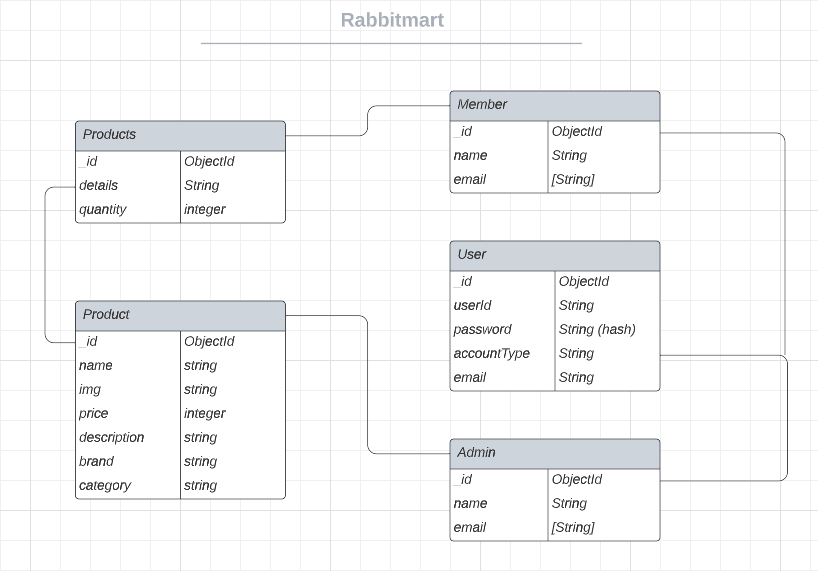
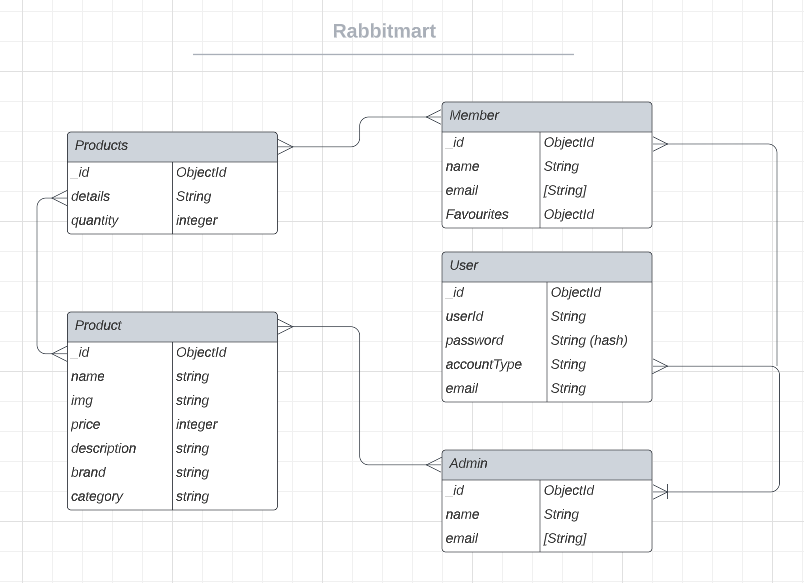
Clean version

diff --git a/src/pages/OrderPage/CartContext.jsx b/src/pages/OrderPage/CartContext.jsx
@@ -4,9 +4,7 @@ import { useProducts, getProductData } from "../../utilities/productStore";
 export const CartContext = createContext({
   items: [],
   getProductQuantity: () => {},
-  addOneToCart: () => {
-    console.log("HELLLOOOOOO");
-  },
+  addOneToCart: () => {},
   removeOneFromCart: () => {},
   deleteFromCart: () => {},
   getTotalCost: () => {},
@@ -28,9 +26,7 @@ export function CartProvider({ children }) {
   }
 
   function addOneToCart(_id) {
-    console.log("ADDED TO CART!!!");
     const quantity = getProductQuantity(_id);
-    console.log("ADD TO CART", quantity, _id);
     if (quantity === 0) {
       setCartProducts([
         ...cartProducts,
@@ -43,9 +39,9 @@ export function CartProvider({ children }) {
       setCartProducts(
         cartProducts.map(
           (product) =>
-            product._id === _id // if condition
-              ? { ...product, quantity: product.quantity + 1 } // if statement is true
-              : product // if statement is false
+            product._id === _id 
+              ? { ...product, quantity: product.quantity + 1 } 
+              : product 
         )
       );
     }
@@ -60,9 +56,9 @@ export function CartProvider({ children }) {
       setCartProducts(
         cartProducts.map(
           (product) =>
-            product._id === _id // if condition
-              ? { ...product, quantity: product.quantity - 1 } // if statement is true
-              : product // if statement is false
+            product._id === _id 
+              ? { ...product, quantity: product.quantity - 1 } 
+              : product 
         )
       );
     }
@@ -79,7 +75,7 @@ export function CartProvider({ children }) {
   function getTotalCost() {
     let totalCost = 0;
     cartProducts.map((cartItem) => {
-      const productData = getProductData(cartItem._id, products); // Update this line
+      const productData = getProductData(cartItem._id, products); 
       totalCost += productData.price * cartItem.quantity;
     });
     return totalCost;

diff --git a/src/utilities/productStore.js b/src/utilities/productStore.js
@@ -1,31 +1,30 @@
-    import { useState, useEffect } from 'react';
-    import axios from 'axios';
-    
-    function useProducts() {
-      const [products, setProducts] = useState([]);
-    
-      useEffect(() => {
-        async function fetchProducts() {
-          try {
-            const response = await axios.get('/api/products');
-            setProducts(response.data);
-          } catch (error) {
-            console.error('Error fetching products:', error);
-          }
-        }
-            fetchProducts();
-      }, []);
-          return products;
-    }
-    
-    function getProductData(id, productsArray) {
-      let productData = productsArray.find(product => product._id === id);
-          if (productData === undefined) {
-        console.log("Product data does not exist for ID: " + id);
-        return undefined;
+import { useState, useEffect } from "react";
+import axios from "axios";
+
+function useProducts() {
+  const [products, setProducts] = useState([]);
+
+  useEffect(() => {
+    async function fetchProducts() {
+      try {
+        const response = await axios.get("/api/products");
+        setProducts(response.data);
+      } catch (error) {
+        console.error("Error fetching products:", error);
       }
-     return productData;
     }
-    
-    export { useProducts, getProductData };
-    
+    fetchProducts();
+  }, []);
+  return products;
+}
+
+function getProductData(id, productsArray) {
+  let productData = productsArray.find((product) => product._id === id);
+  if (productData === undefined) {
+    console.log("Product data does not exist for ID: " + id);
+    return undefined;
+  }
+  return productData;
+}
+
+export { useProducts, getProductData };

diff --git a/controllers/memberController.js b/controllers/memberController.js
@@ -23,6 +23,7 @@ const seed = async (req, res) => {
   }
 };
 
+// Member CRUD --------------------------------------------------------------------------------
 const create = async (req, res) => {
   const { email, password, name } = req.body;
   if (password.length < 3) {
@@ -102,6 +103,8 @@ const resetPassword = async (req, res) => {
   }
 };
 
+// Favorite Products--------------------------------------------------------------------------------
+
 const getFavorites = async (req, res) => {
   const { memberId } = req.params;
 
@@ -113,11 +116,9 @@ const getFavorites = async (req, res) => {
   }
 };
 
-// Add favorite product
 const addFavorite = async (req, res) => {
   const { memberId, productId } = req.params;
   try {
-    // Find the member and add the product ID to the favorites array
     await Member.findByIdAndUpdate(memberId, {
       $addToSet: { favorites: productId },
     });
@@ -130,11 +131,9 @@ const addFavorite = async (req, res) => {
 const removeFavorite = async (req, res) => {
   const { memberId, productId } = req.params;
   try {
-    // Find the member and remove the product ID from the favorites array
     await Member.findByIdAndUpdate(memberId, {
       $pull: { favorites: productId },
     });
-
     res.status(200).json({ message: "Product removed from favorites." });
   } catch (error) {
     res.status(500).json({ error: "An error occurred while removing the product from favorites." });

diff --git a/src/utilities/api.js b/src/utilities/api.js
@@ -1,23 +1,9 @@
 import axios from "axios";
-const SERVER_ROOT = "/api";
 
 export function login(email, password) {
   return new Promise((resolve, reject) => {
     axios
       .post(`${SERVER_ROOT}/login`, { email, password })
-      .then((response) => {
-        resolve(response.data);
-      })
-      .catch((error) => {
-        reject(error);
-      });
-  });
-}
-
-export function getProducts() {
-  return new Promise((resolve, reject) => {
-    axios
-      .get(`${SERVER_ROOT}/products`)
       .then((response) => {
         resolve(response.data);
       })
@@ -81,6 +67,19 @@ export const removeFavorite = async (memberId, productId, token) => {
   }
 };
 
+export function getProducts() {
+  return new Promise((resolve, reject) => {
+    axios
+      .get(`/api/products`)
+      .then((response) => {
+        resolve(response.data);
+      })
+      .catch((error) => {
+        reject(error);
+      });
+  });
+}
+
 export const getProductById = async (productId) => {
   try {
     const response = await axios.get(`/api/products/${productId}`);
@@ -97,11 +96,12 @@ export const getProductById = async (productId) => {
  * @param {Array<>} items Cart Items
  * @return {Promise}
  */
+
 export function submitCart(token, items) {
   return new Promise((resolve, reject) => {
     axios
       .post(
-        `${SERVER_ROOT}/submitCart`,
+        `/api/submitCart`,
         {
           items,
         },

diff --git a/routes/memberRouter.js b/routes/memberRouter.js
@@ -1,15 +1,21 @@
 const memberController = require("../controllers/memberController");
 const express = require("express");
 const router = express.Router();
+const { isAuth } = require("../controllers/auth");
 
 router
   .get("/seed", memberController.seed)
-  .get("/favorites/:memberId", memberController.getFavorites)
-  .post("/favorites/:memberId/:productId", memberController.addFavorite)
-  .delete("/favorites/:memberId/:productId", memberController.removeFavorite)
+  // Favorites CRUD ----------------------------------------------------------------------------
+  .get("/favorites/:memberId", isAuth, memberController.getFavorites)
+  .post("/favorites/:memberId/:productId", isAuth, memberController.addFavorite)
+  .delete(
+    "/favorites/:memberId/:productId",
+    isAuth,
+    memberController.removeFavorite
+  )
+  // Member CRUD -------------------------------------------------------------------------------
   .post("/signup", memberController.create)
   .post("/login", memberController.login)
   .post("/reset", memberController.resetPassword);
 
-  
 module.exports = router;

diff --git a/src/utilities/members-service.js b/src/utilities/members-service.js
@@ -1,11 +1,7 @@
-
-
 export async function signUp(memberData) {
-  // Delegate the network request code to the members-api.js API module
-  // which will ultimately return a JSON Web Token (JWT)
+  // Delegate the network request code to the members-api.js API module which will ultimately return a JSON Web Token (JWT)
   const token = await membersAPI.signUp(memberData);
   localStorage.setItem("token", token);
-  // Baby step by returning whatever is sent back by the server
   return getMember();
 }
 
@@ -20,14 +16,13 @@ export function logout() {
 }
 
 export function getToken() {
-  // getItem returns null if there's no string
   const token = localStorage.getItem("token");
   if (!token) return null;
   // Obtain the payload of the token
   const payload = JSON.parse(window.atob(token.split(".")[1]));
   // A JWT's exp is expressed in seconds, not milliseconds, so convert
   if (payload.exp < Date.now() / 1000) {
-    // Token has expired - remove it from localStorage
+  // Token has expired - remove it from localStorage
     localStorage.removeItem("token");
     return null;
   }

diff --git a/src/pages/Products/AllProductsPage_Guest.jsx b/src/pages/Products/AllProductsPage_Guest.jsx
@@ -2,10 +2,11 @@ import * as React from "react";
 import { Link } from "react-router-dom";
 import { useEffect, useState, useContext } from "react";
 import * as API from "../../utilities/api";
+import { CartContextNew } from "../OrderPage/CartContextNew";
+// CSS ---------------------------------------------------------------------
 import AddShoppingCartIcon from "@mui/icons-material/AddShoppingCart";
 import FavoriteIcon from "@mui/icons-material/Favorite";
 import Button from "@mui/material/Button";
-import { CartContextNew } from "../OrderPage/CartContextNew";
 import Snackbar from "@mui/material/Snackbar";
 import Alert from "@mui/material/Alert";
 import Banners from "../../components/NavBars/Banners.jsx";
@@ -58,7 +59,6 @@ export default function ProductsPage(props) {
 
   const addProductToFavorites = (item) => {
     const memberId = localStorage.getItem("memberId");
-    console.log("heree", memberId);
     const token = localStorage.getItem("token");
     API.addFavorite(memberId, item._id, token)
       .then(() => {

diff --git a/controllers/productsController.js b/controllers/productsController.js
@@ -1,6 +1,6 @@
 const Product = require("../models/Product");
 
-// Create
+// Product CRUD--------------------------------------------------------------------------------
 const create = async (req, res) => {
   try {
     const createdProduct = await Product.create(req.body);
@@ -10,7 +10,6 @@ const create = async (req, res) => {
   }
 };
 
-// Read
 const index = async (req, res) => {
   try {
     const allProducts = await Product.find({});
@@ -29,7 +28,6 @@ const show = async (req, res) => {
   }
 };
 
-// Update
 const update = async (req, res) => {
   try {
     const updatedProduct = await Product.findByIdAndUpdate(
@@ -43,7 +41,6 @@ const update = async (req, res) => {
   }
 };
 
-// Delete
 const deleteProduct = async (req, res) => {
   try {
     const deletedProduct = await Product.findByIdAndDelete(req.params.id);

diff --git a/src/pages/Products/SelectedProductPage_Guest.jsx b/src/pages/Products/SelectedProductPage_Guest.jsx
@@ -1,11 +1,12 @@
 import * as React from "react";
-import { useEffect, useState, useContext } from "react";
+import { useState} from "react";
 import * as API from "../../utilities/api";
+import { CartContextNew } from "../OrderPage/CartContextNew";
+import { useParams } from "react-router-dom";
+// CSS ---------------------------------------------------------------------
 import AddShoppingCartIcon from "@mui/icons-material/AddShoppingCart";
 import FavoriteIcon from "@mui/icons-material/Favorite";
 import Button from "@mui/material/Button";
-import { CartContextNew } from "../OrderPage/CartContextNew";
-import { useParams } from "react-router-dom";
 import Grid from "@mui/material/Grid";
 import Snackbar from "@mui/material/Snackbar";
 import Alert from "@mui/material/Alert";

diff --git a/index.html b/index.html
@@ -1,17 +1,3 @@
-<!-- <!DOCTYPE html>
-<html lang="en">
-  <head>
-    <meta charset="UTF-8" />
-    <link rel="icon" type="image/svg+xml" href="/vite.svg" />
-    <meta name="viewport" content="width=device-width, initial-scale=1.0" />
-    <title>Vite + React</title>
-  </head>
-  <body>
-    <div id="root"></div>
-    <script type="module" src="/src/main.jsx"></script>
-  </body>
-</html> -->
-
 <!DOCTYPE html>
 <html lang="en">
   <head>
@@ -35,7 +21,7 @@
       integrity="sha256-WBkoXOwTeyKclOHuWtc+i2uENFpDZ9YPdf5Hf+D7ewM="
       crossorigin=""
     ></script>
-    <title>Capstone</title>
+    <title>Rabbitmart</title>
   </head>
   <body>
     <div id="root"></div>

diff --git a/src/pages/Products/ProductDashboard_Admin.jsx b/src/pages/Products/ProductDashboard_Admin.jsx
@@ -1,6 +1,7 @@
 import { Link } from "react-router-dom";
 import { useEffect, useState } from "react";
 import DeleteProductBtn from "./DeleteProductBtn_Admin";
+// CSS ---------------------------------------------------------------------
 import {
   Box,
   Button,
@@ -53,7 +54,7 @@ export default function ProductsForm({ products, delProduct }) {
             fullWidth
             label="Search"
             variant="outlined"
-            placeholder="Enter Product name, id, category or brand"
+            placeholder="Enter Name / Id / Category / Brand"
             value={searchTerm}
             onChange={handleSearchChange}
           />

diff --git a/src/pages/Favorites/FavoritesPage.jsx b/src/pages/Favorites/FavoritesPage.jsx
@@ -1,9 +1,9 @@
 import * as React from "react";
-import { useEffect, useState, useContext } from "react";
 import * as API from "../../utilities/api";
 import { CartContextNew } from "../OrderPage/CartContextNew";
-import { Box, Container, TextField } from "@mui/material";
 import { Link } from "react-router-dom";
+// CSS ---------------------------------------------------------------------
+import { Box, Container, TextField } from "@mui/material";
 import { Button } from "@mui/material";
 import AddShoppingCartIcon from "@mui/icons-material/AddShoppingCart";
 
